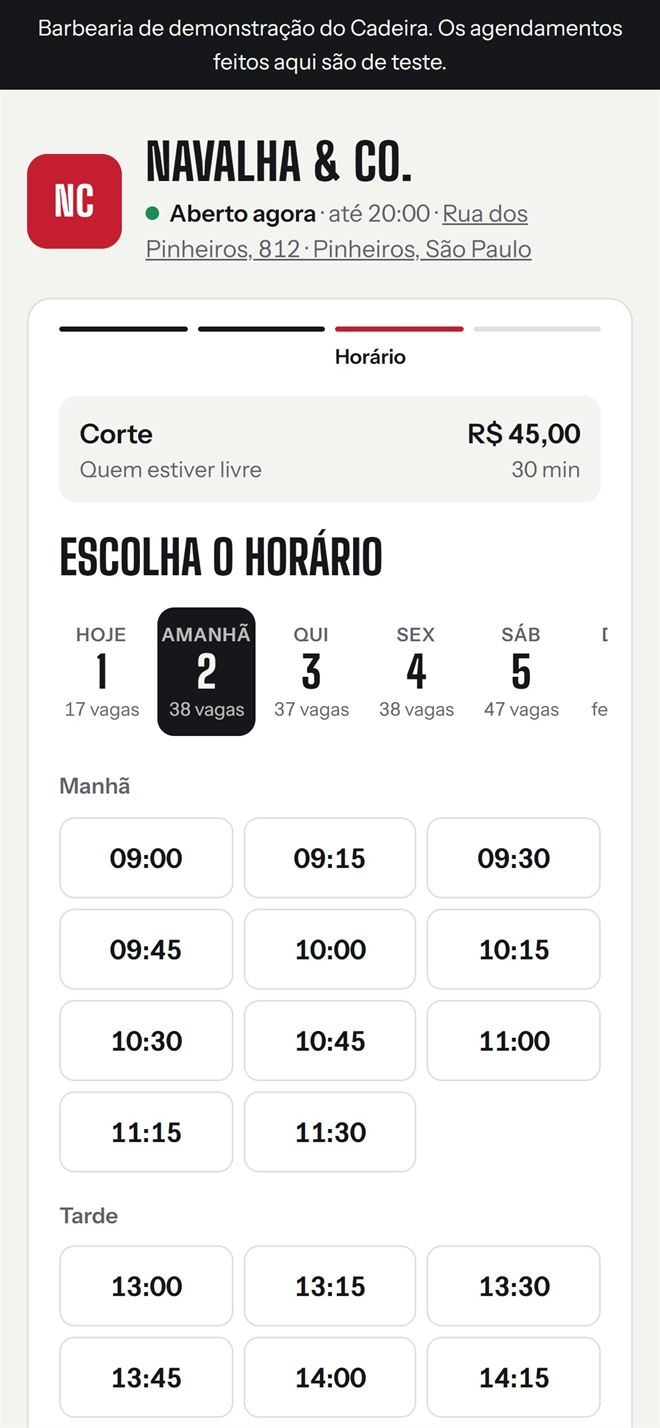
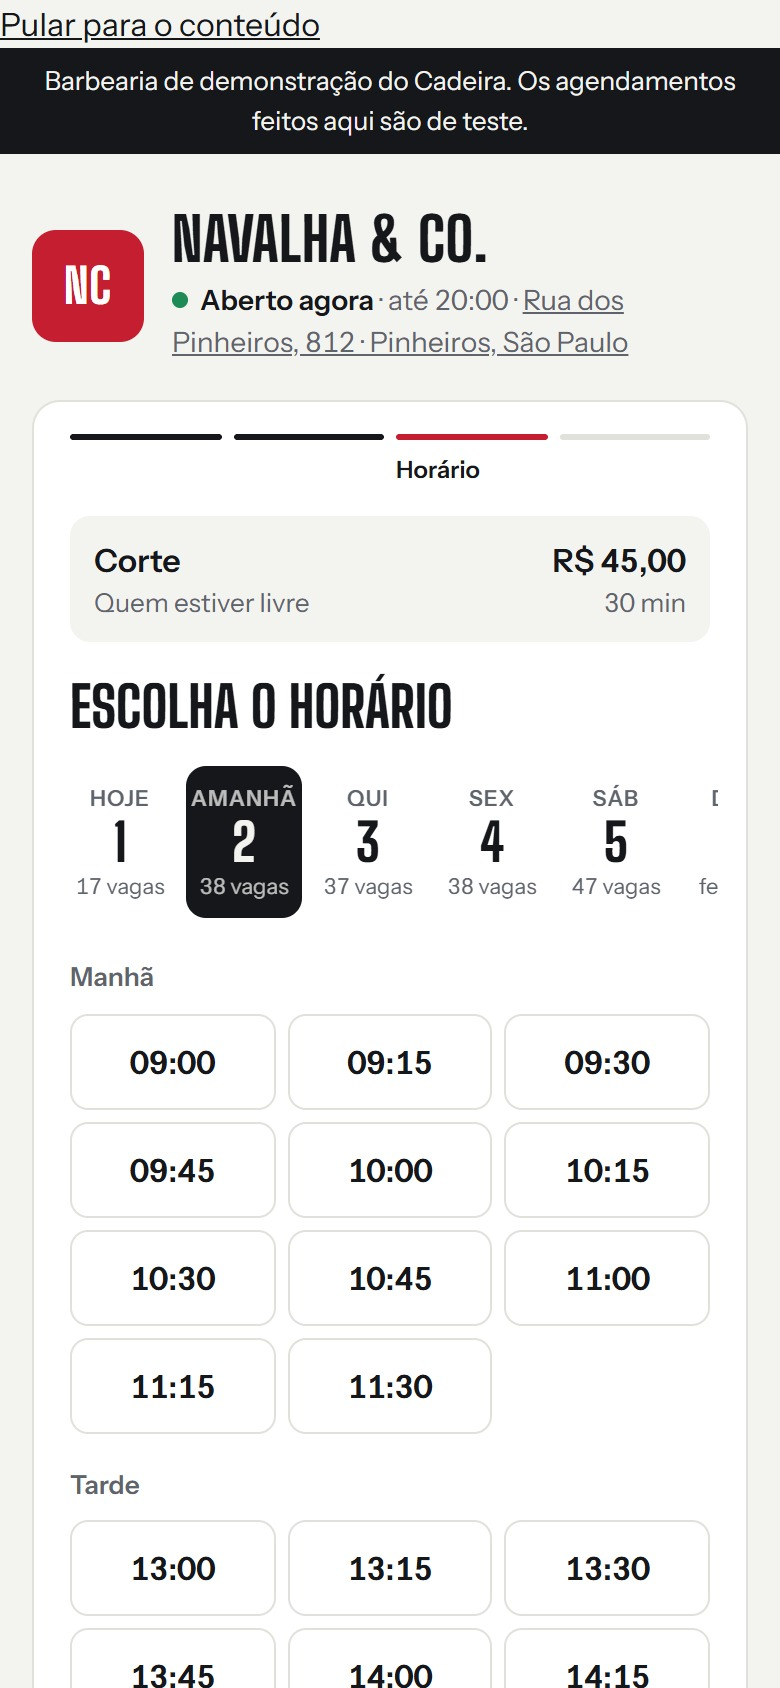
Regenera as imagens da pagina inicial em resolucao 2x e JPEG mais nitido.

diff --git a/src/web/site.ts b/src/web/site.ts
@@ -1,4 +1,4 @@
-import { h, doc, LOGO, Safe, flash, ICON } from './html.ts';
+import { h, doc, LOGO, Safe, flash, ICON, ASSET_V } from './html.ts';
 import { PLATFORM, brl } from '../lib/core.ts';
 
 /* Site de vendas. Identidade em DESIGN.md: branco, preto quente, vermelho de cadeira de barbeiro;
@@ -33,8 +33,8 @@ const ROLES_TABLE: [string, string, string, string, string][] = [
 
 /** Recorte de tela real; no celular pode trocar por outro recorte (mesma tela, versão de celular). */
 const shot = (o: { src: string; w: number; h: number; alt: string; mob?: { src: string; w: number; h: number }; eager?: boolean; cls?: string }) => h`<picture class="${o.cls ?? ''}">
-  ${o.mob ? h`<source media="(max-width: 700px)" srcset="/static/img/${o.mob.src}" width="${o.mob.w}" height="${o.mob.h}">` : ''}
-  <img src="/static/img/${o.src}" alt="${o.alt}" width="${o.w}" height="${o.h}" ${o.eager ? 'fetchpriority="high"' : 'loading="lazy"'} decoding="async"></picture>`;
+  ${o.mob ? h`<source media="(max-width: 700px)" srcset="/static/img/${o.mob.src}?v=${ASSET_V}" width="${o.mob.w}" height="${o.mob.h}">` : ''}
+  <img src="/static/img/${o.src}?v=${ASSET_V}" alt="${o.alt}" width="${o.w}" height="${o.h}" ${o.eager ? 'fetchpriority="high"' : 'loading="lazy"'} decoding="async"></picture>`;
 
 const launchNotice = h`<p>Você já pode testar o Cadeira. A contratação paga abre após a fase de lançamento.</p>`;
 export function home(o: { trialDays: number; user: boolean; plans: any[]; billingOpen?: boolean }) {
@@ -51,7 +51,7 @@ export function home(o: { trialDays: number; user: boolean; plans: any[]; billin
         <ul class="promises"><li>${o.trialDays} dias grátis</li><li>Sem cartão para testar</li><li>Sem taxa por agendamento</li></ul>
       </div>
       <div class="hero-demo" aria-label="Exemplo: o cliente escolhe o horário e recebe o lembrete">
-        <figure class="phone">${shot({ src: 'demo-cliente-horario.jpg', w: 660, h: 1428, alt: 'Página de agendamento no celular do cliente, com os horários livres de amanhã', eager: true })}</figure>
+        <figure class="phone">${shot({ src: 'demo-cliente-horario.jpg', w: 780, h: 1688, alt: 'Página de agendamento no celular do cliente, com os horários livres de amanhã', eager: true })}</figure>
         <div class="bubble" aria-hidden="true">
           <small>Mensagem pronta no WhatsApp da barbearia</small>
           <p>Olá, Caio! Passando para lembrar do seu horário amanhã às 15:00 na Navalha &amp; Co. com Diego.</p>
@@ -70,7 +70,7 @@ export function home(o: { trialDays: number; user: boolean; plans: any[]; billin
           <li><b>O próximo horário livre</b> de cada um, para encaixar quem chega sem marcar.</li>
         </ol>
       </div>
-      <figure class="screen">${shot({ src: 'demo-hoje.jpg', w: 1440, h: 860, alt: 'Tela Hoje do painel: próximo cliente às 15:00, resumo do dia e a linha do dia de cada barbeiro', mob: { src: 'demo-hoje-celular.jpg', w: 660, h: 1428 } })}</figure>
+      <figure class="screen">${shot({ src: 'demo-hoje.jpg', w: 2096, h: 1252, alt: 'Tela Hoje do painel: próximo cliente às 15:00, resumo do dia e a linha do dia de cada barbeiro', mob: { src: 'demo-hoje-celular.jpg', w: 780, h: 1688 } })}</figure>
     </div></section>
 
     <section class="loop"><div class="wrap">
@@ -82,8 +82,8 @@ export function home(o: { trialDays: number; user: boolean; plans: any[]; billin
           <li><b>O cliente abre o link</b> e confirma presença, remarca para um horário livre ou cancela.</li>
           <li><b>No painel</b> aparece quem confirmou. Se ele cancelou, o horário já voltou para a agenda.</li>
         </ol>
-        <figure class="screen">${shot({ src: 'demo-lembretes.jpg', w: 1416, h: 768, alt: 'Lista de lembretes de amanhã: horário, cliente, serviço, barbeiro e o botão WhatsApp de cada um', mob: { src: 'demo-lembretes-celular.jpg', w: 660, h: 1428 } })}</figure>
-        <figure class="phone sm">${shot({ src: 'demo-cliente-link.jpg', w: 660, h: 1428, alt: 'Tela do cliente com os botões confirmar presença, remarcar e cancelar' })}</figure>
+        <figure class="screen">${shot({ src: 'demo-lembretes.jpg', w: 1416, h: 768, alt: 'Lista de lembretes de amanhã: horário, cliente, serviço, barbeiro e o botão WhatsApp de cada um', mob: { src: 'demo-lembretes-celular.jpg', w: 780, h: 1688 } })}</figure>
+        <figure class="phone sm">${shot({ src: 'demo-cliente-link.jpg', w: 780, h: 1688, alt: 'Tela do cliente com os botões confirmar presença, remarcar e cancelar' })}</figure>
       </div>
       <p class="note">O envio é por um toque, do número da própria barbearia. Não há mensagem automática nem custo por mensagem.</p>
     </div></section>
@@ -93,7 +93,7 @@ export function home(o: { trialDays: number; user: boolean; plans: any[]; billin
         <p class="kicker">Caixa</p>
         <h2>Atendeu, fechou a comanda.</h2>
         <p class="body">Serviço extra, pomada, desconto e pagamento em Pix, dinheiro com troco, débito, crédito ou dividido em dois. No fim do dia, o caixa mostra quanto entrou em cada forma e quanto devia ter na gaveta.</p>
-        <figure class="screen pay">${shot({ src: 'demo-comanda.jpg', w: 682, h: 864, alt: 'Comanda de um corte de 45 reais com as formas de pagamento Pix, dinheiro, débito, crédito ou outro' })}</figure>
+        <figure class="screen pay">${shot({ src: 'demo-comanda.jpg', w: 682, h: 756, alt: 'Comanda de um corte de 45 reais com as formas de pagamento Pix, dinheiro, débito, crédito ou outro' })}</figure>
       </div>
       <div>
         <p class="kicker">Comissão</p>

diff --git a/src/web/html.ts b/src/web/html.ts
@@ -44,7 +44,7 @@ export const LOGO = raw(`<svg class="mk" viewBox="0 0 24 24" width="26" height="
 export const ICON_SVG = `<svg xmlns="http://www.w3.org/2000/svg" viewBox="0 0 24 24"><rect width="24" height="24" rx="5.5" fill="#17130F"/><g transform="translate(2.4 2.4) scale(.8)" color="#fff">${MARK}</g></svg>`;
 
 /** Versão dos arquivos estáticos: muda a cada publicação, então o navegador nunca usa CSS antigo. */
-const ASSET_V = process.env.ASSET_VERSION || Date.now().toString(36);
+export const ASSET_V = process.env.ASSET_VERSION || Date.now().toString(36);
 const FONT = 'https://fonts.googleapis.com/css2?family=Bricolage+Grotesque:opsz,wght@12..96,600..800&family=Geist:wght@400;500;600;700&display=swap';
 export function doc(o: { title: string; body: Safe; css: string[]; fonts?: string[]; bodyClass?: string; style?: string; desc?: string; scripts?: string[]; head?: Safe; noindex?: boolean }) {
   return '<!doctype html>' + h`<html lang="pt-BR"><head><meta charset="utf-8"><meta name="viewport" content="width=device-width,initial-scale=1,viewport-fit=cover">

diff --git a/scripts/recortes.ts b/scripts/recortes.ts
@@ -14,8 +14,8 @@ async function shot(o: { name: string; url: string; w: number; h: number; scale?
   await page.goto(BASE + o.url, { waitUntil: 'load' });
   await page.evaluate(() => document.fonts.ready);
   const path = join(OUT, `demo-${o.name}.jpg`);
-  if (o.sel) await page.locator(o.sel).first().screenshot({ path, type: 'jpeg', quality: 80 });
-  else await page.screenshot({ path, type: 'jpeg', quality: 80, clip: o.clip });
+  if (o.sel) await page.locator(o.sel).first().screenshot({ path, type: 'jpeg', quality: 92 });
+  else await page.screenshot({ path, type: 'jpeg', quality: 92, clip: o.clip });
   await ctx.close();
   console.log('ok', o.name);
 }
